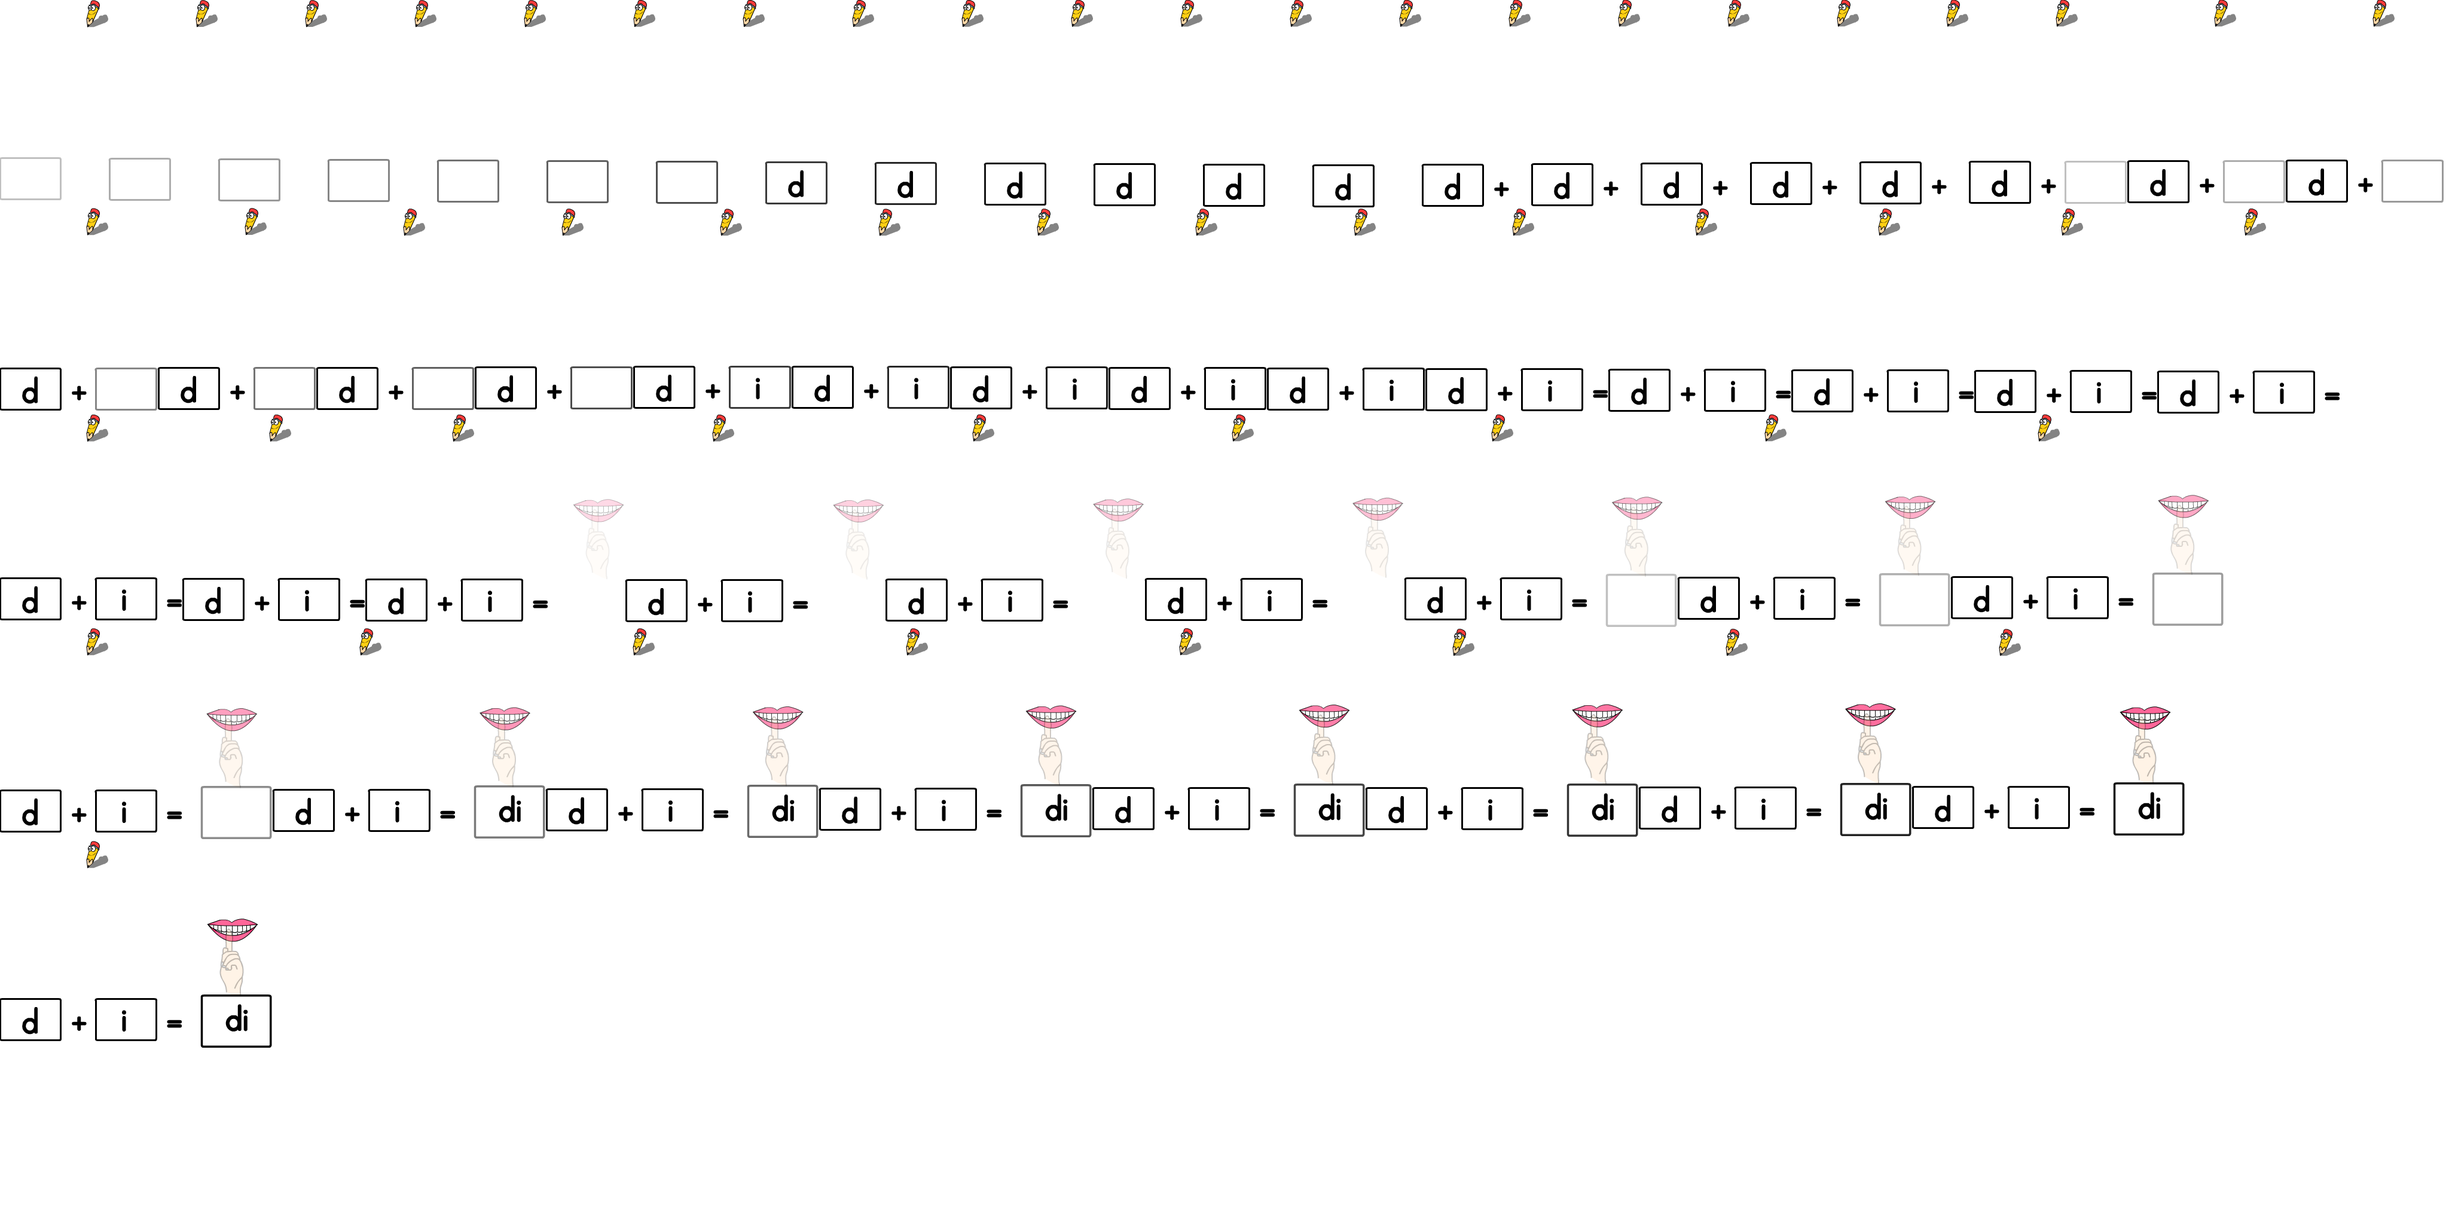
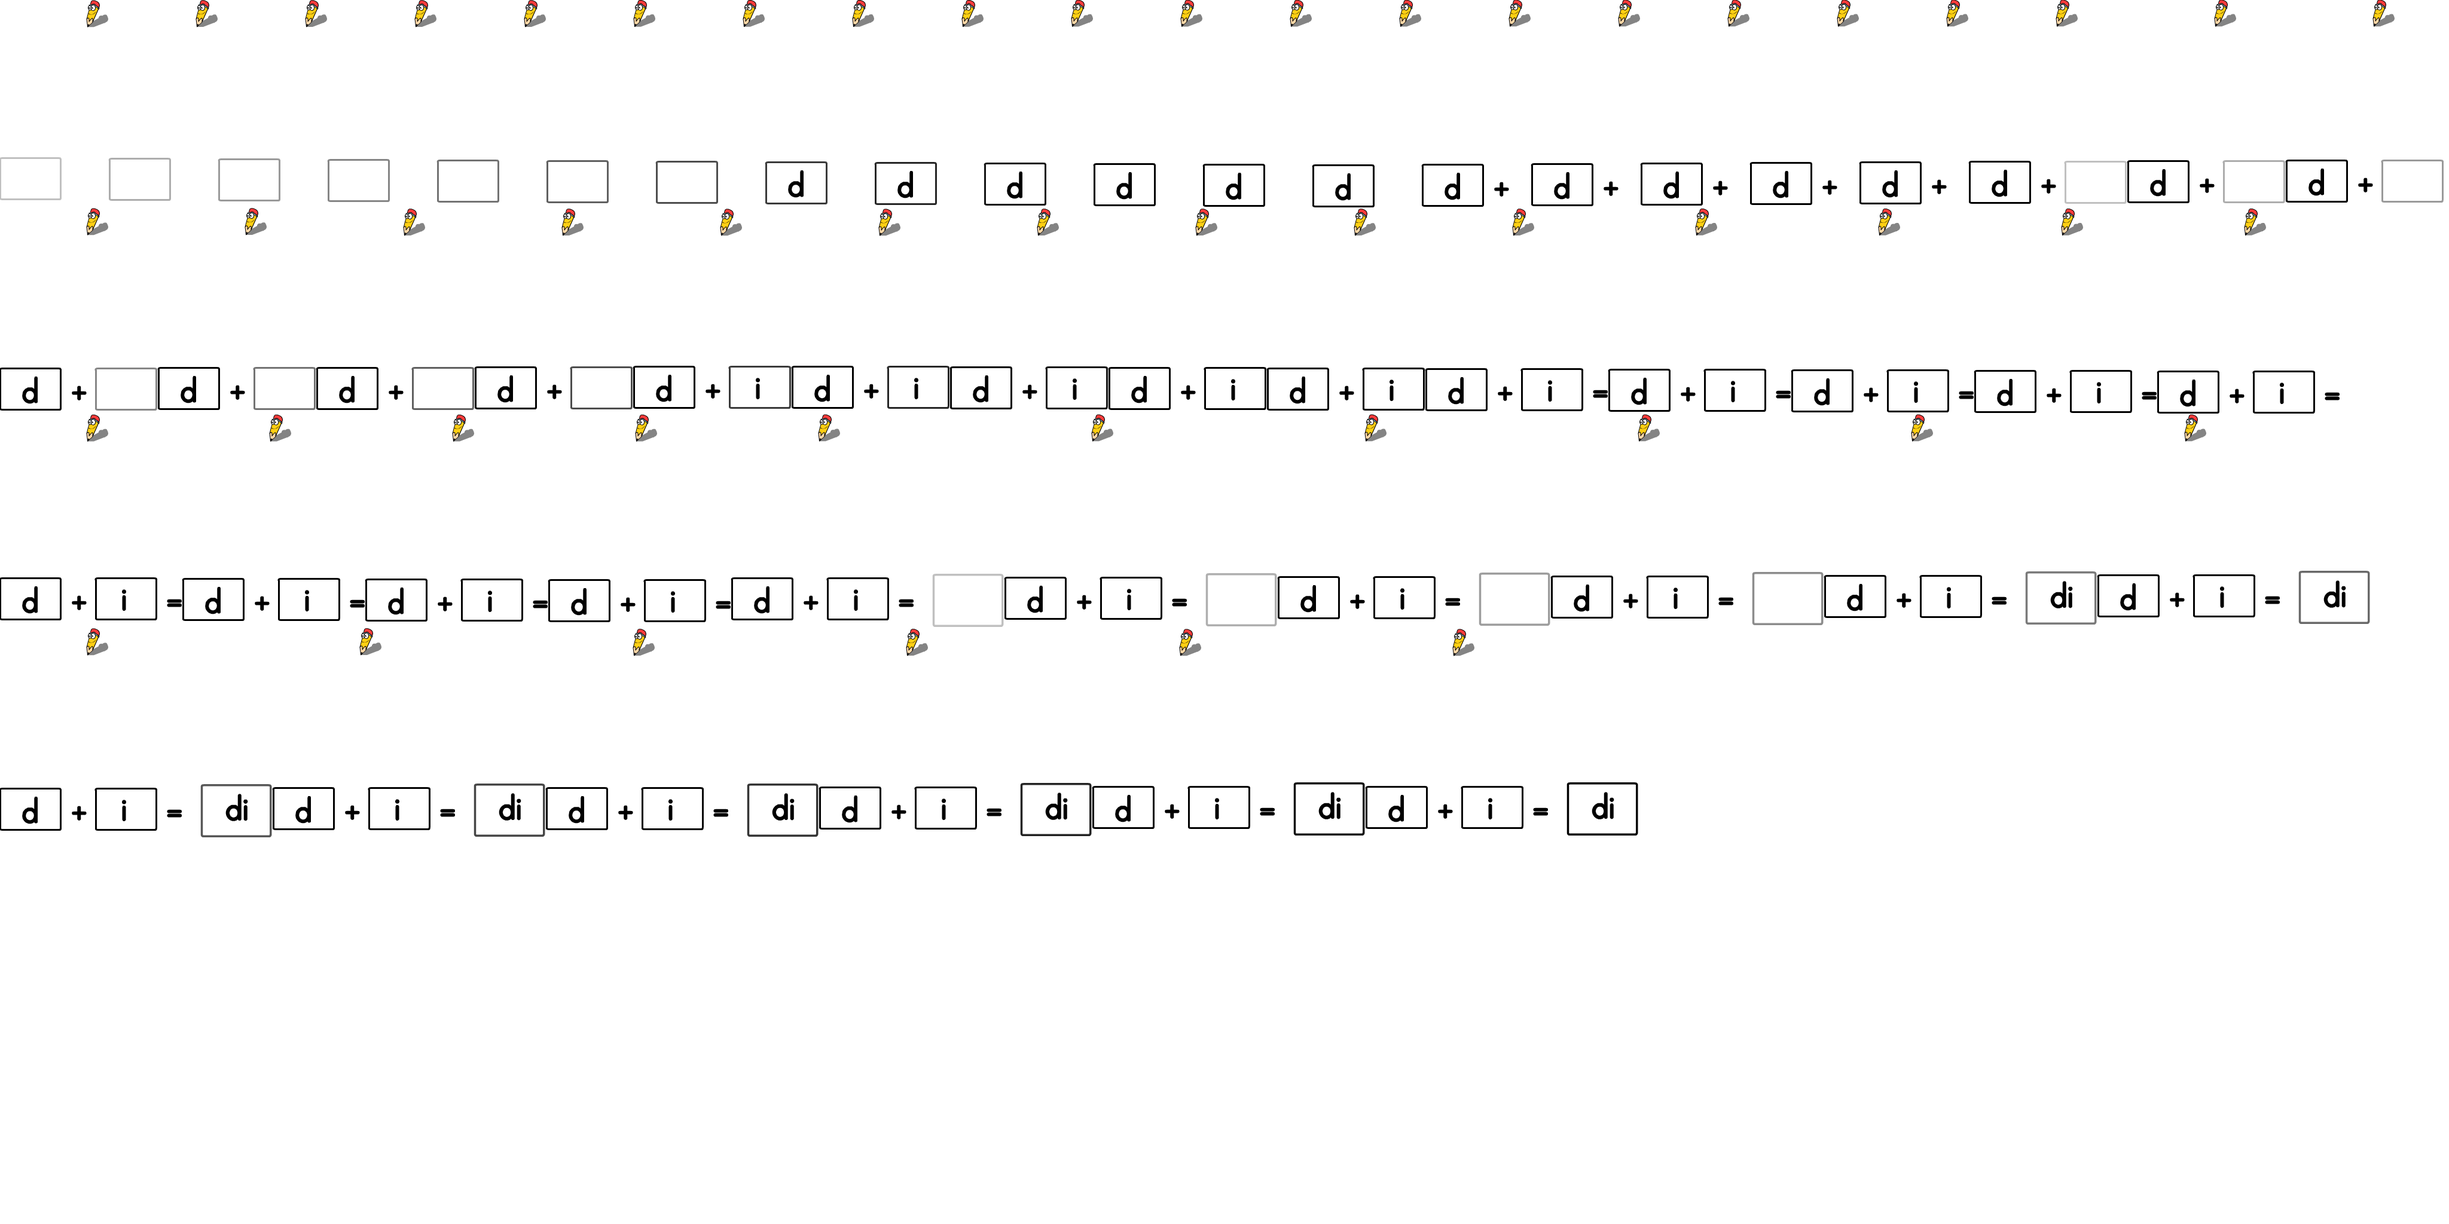
Fix minor bugs identified by QA

diff --git a/src/views/SukukataKv.vue b/src/views/SukukataKv.vue
@@ -123,7 +123,7 @@ let sukukata = [
             },
             {
               sukukata: "di",
-              frames: [[0,0,181,335,0,360.9,169.75],[183,0,181,336,0,360.9,170.75],[366,0,181,337,0,360.9,171.75],[549,0,181,338,0,360.9,172.75],[732,0,181,339,0,360.9,173.75],[915,0,181,340,0,360.9,174.75],[1098,0,181,341,0,360.9,175.75],[1281,0,181,342,0,360.9,176.75],[1464,0,181,343,0,360.9,177.75],[1647,0,181,344,0,360.9,178.75],[1830,0,181,345,0,360.9,179.75],[2013,0,181,346,0,360.9,180.75],[2196,0,181,347,0,360.9,181.75],[2379,0,181,346,0,360.9,180.75],[2562,0,181,345,0,360.9,179.75],[2745,0,181,344,0,360.9,178.75],[2928,0,181,343,0,360.9,177.75],[3111,0,181,342,0,360.9,176.75],[3294,0,263,341,0,360.9,175.75],[3559,0,263,340,0,360.9,174.75],[3824,0,263,339,0,360.9,173.75],[0,349,263,338,0,360.9,172.75],[265,349,263,337,0,360.9,171.75],[530,349,263,337,0,360.9,171.75],[795,349,263,336,0,360.9,170.75],[1060,349,263,335,0,360.9,169.75],[1325,349,263,335,0,360.9,169.75],[1590,349,263,336,0,360.9,170.75],[1855,349,263,337,0,360.9,171.75],[2120,349,263,338,0,360.9,172.75],[2385,349,304,339,0,360.9,173.75],[2691,349,304,340,0,360.9,174.75],[2997,349,304,341,0,360.9,175.75],[3303,349,304,342,0,360.9,176.75],[3609,349,304,343,0,360.9,177.75],[0,694,304,344,0,360.9,178.75],[306,694,304,345,0,360.9,179.75],[612,694,433,346,0,360.9,180.75],[1047,694,433,347,0,360.9,181.75],[1482,694,432,346,0,360.9,180.75],[1916,694,432,345,0,360.9,179.75],[2350,694,455,356,0,360.9,178.75],[2807,694,455,355,0,360.9,177.75],[3264,694,455,354,0,360.9,176.75],[0,1052,455,353,0,360.9,175.75],[457,1052,455,352,0,360.9,174.75],[914,1052,455,351,0,360.9,173.75],[1371,1052,455,350,0,360.9,172.75],[1828,1052,455,349,0,360.9,171.75],[2285,1052,455,349,0,360.9,171.75],[2742,1052,455,348,0,360.9,170.75],[3199,1052,455,347,0,360.9,169.75],[0,1407,455,347,0,360.9,169.75]],
+              frames: [[0,0,181,335,0,360.9,169.75],[183,0,181,336,0,360.9,170.75],[366,0,181,337,0,360.9,171.75],[549,0,181,338,0,360.9,172.75],[732,0,181,339,0,360.9,173.75],[915,0,181,340,0,360.9,174.75],[1098,0,181,341,0,360.9,175.75],[1281,0,181,342,0,360.9,176.75],[1464,0,181,343,0,360.9,177.75],[1647,0,181,344,0,360.9,178.75],[1830,0,181,345,0,360.9,179.75],[2013,0,181,346,0,360.9,180.75],[2196,0,181,347,0,360.9,181.75],[2379,0,181,346,0,360.9,180.75],[2562,0,181,345,0,360.9,179.75],[2745,0,181,344,0,360.9,178.75],[2928,0,181,343,0,360.9,177.75],[3111,0,181,342,0,360.9,176.75],[3294,0,263,341,0,360.9,175.75],[3559,0,263,340,0,360.9,174.75],[3824,0,263,339,0,360.9,173.75],[0,349,263,338,0,360.9,172.75],[265,349,263,337,0,360.9,171.75],[530,349,263,337,0,360.9,171.75],[795,349,263,336,0,360.9,170.75],[1060,349,263,335,0,360.9,169.75],[1325,349,263,335,0,360.9,169.75],[1590,349,263,336,0,360.9,170.75],[1855,349,263,337,0,360.9,171.75],[2120,349,263,338,0,360.9,172.75],[2385,349,304,339,0,360.9,173.75],[2691,349,304,340,0,360.9,174.75],[2997,349,304,341,0,360.9,175.75],[3303,349,304,342,0,360.9,176.75],[3609,349,304,343,0,360.9,177.75],[0,694,304,344,0,360.9,178.75],[306,694,304,345,0,360.9,179.75],[612,694,304,346,0,360.9,180.75],[918,694,304,347,0,360.9,181.75],[918,694,304,347,0,360.9,180.75],[612,694,304,346,0,360.9,179.75],[1224,694,455,356,0,360.9,178.75],[1681,694,455,355,0,360.9,177.75],[2138,694,455,354,0,360.9,176.75],[2595,694,455,353,0,360.9,175.75],[3052,694,455,352,0,360.9,174.75],[3509,694,455,351,0,360.9,173.75],[0,1052,455,350,0,360.9,172.75],[457,1052,455,349,0,360.9,171.75],[914,1052,455,349,0,360.9,171.75],[1371,1052,455,348,0,360.9,170.75],[1828,1052,455,347,0,360.9,169.75],[2285,1052,455,347,0,360.9,169.75]],
               x: isMobile.value ? .27: .3,
               y: isMobile.value ? .28 : .2,
               width: 277,
@@ -185,7 +185,7 @@ let sukukata = [
             },
             {
               sukukata: "fe",
-              frames: [[0,0,397,327,0,360.9,161.35],[399,0,397,328,0,360.9,162.35],[798,0,397,329,0,360.9,163.35],[1197,0,397,330,0,360.9,164.35],[1596,0,397,331,0,360.9,165.35],[1995,0,397,332,0,360.9,166.35],[2394,0,397,334,0,360.9,168.35],[2793,0,397,335,0,360.9,169.35],[3192,0,397,336,0,360.9,170.35],[3591,0,397,337,0,360.9,171.35],[0,339,397,338,0,360.9,172.35],[399,339,397,339,0,360.9,173.35],[798,339,397,340,0,360.9,174.35],[1197,339,397,339,0,360.9,173.35],[1596,339,397,338,0,360.9,172.35],[1995,339,397,337,0,360.9,171.35],[2394,339,397,336,0,360.9,170.35],[2793,339,397,335,0,360.9,169.35],[3192,339,397,334,0,360.9,168.35],[3591,339,397,333,0,360.9,167.35],[0,681,397,332,0,360.9,166.35],[399,681,397,331,0,360.9,165.35],[798,681,397,330,0,360.9,164.35],[1197,681,397,329,0,360.9,163.35],[1596,681,397,328,0,360.9,162.35],[1995,681,397,327,0,360.9,161.35],[2394,681,397,327,0,360.9,161.35],[2793,681,397,328,0,360.9,162.35],[3192,681,397,329,0,360.9,163.35],[3591,681,397,330,0,360.9,164.35],[0,1015,397,331,0,360.9,165.35],[399,1015,397,332,0,360.9,166.35],[798,1015,397,334,0,360.9,168.35],[1197,1015,397,335,0,360.9,169.35],[1596,1015,397,336,0,360.9,170.35],[1995,1015,397,337,0,360.9,171.35],[2394,1015,397,338,0,360.9,172.35],[2793,1015,482,339,0,360.9,173.35],[3277,1015,482,340,0,360.9,174.35],[0,1357,482,339,0,360.9,173.35],[484,1357,482,338,0,360.9,172.35],[968,1357,482,349,0,360.9,171.35],[1452,1357,482,348,0,360.9,170.35],[1936,1357,482,347,0,360.9,169.35],[2420,1357,482,346,0,360.9,168.35],[2904,1357,482,345,0,360.9,167.35],[3388,1357,482,344,0,360.9,166.35],[0,1708,482,343,0,360.9,165.35],[484,1708,482,342,0,360.9,164.35],[968,1708,482,341,0,360.9,163.35],[1452,1708,482,340,0,360.9,162.35],[1936,1708,482,339,0,360.9,161.35],[2420,1708,482,339,0,360.9,161.35]],
+              frames: [[0,0,397,327,0,360.9,161.35],[399,0,397,328,0,360.9,162.35],[798,0,397,329,0,360.9,163.35],[1197,0,397,330,0,360.9,164.35],[1596,0,397,331,0,360.9,165.35],[1995,0,397,332,0,360.9,166.35],[2394,0,397,334,0,360.9,168.35],[2793,0,397,335,0,360.9,169.35],[3192,0,397,336,0,360.9,170.35],[3591,0,397,337,0,360.9,171.35],[0,339,397,338,0,360.9,172.35],[399,339,397,339,0,360.9,173.35],[798,339,397,340,0,360.9,174.35],[1197,339,397,339,0,360.9,173.35],[1596,339,397,338,0,360.9,172.35],[1995,339,397,337,0,360.9,171.35],[2394,339,397,336,0,360.9,170.35],[2793,339,397,335,0,360.9,169.35],[3192,339,397,334,0,360.9,168.35],[3591,339,397,333,0,360.9,167.35],[0,681,397,332,0,360.9,166.35],[399,681,397,331,0,360.9,165.35],[798,681,397,330,0,360.9,164.35],[1197,681,397,329,0,360.9,163.35],[1596,681,397,328,0,360.9,162.35],[1995,681,397,327,0,360.9,161.35],[2394,681,397,327,0,360.9,161.35],[2793,681,397,328,0,360.9,162.35],[3192,681,397,329,0,360.9,163.35],[3591,681,397,330,0,360.9,164.35],[0,1015,397,331,0,360.9,165.35],[399,1015,397,332,0,360.9,166.35],[798,1015,397,334,0,360.9,168.35],[1197,1015,397,335,0,360.9,169.35],[1596,1015,397,336,0,360.9,170.35],[1995,1015,397,337,0,360.9,171.35],[2394,1015,397,338,0,360.9,172.35],[2793,1015,397,339,0,360.9,173.35],[3192,1015,397,340,0,360.9,174.35],[3192,1015,397,340,0,360.9,173.35],[2793,1015,397,339,0,360.9,172.35],[3591,1015,455,349,0,360.9,171.35],[0,1366,455,348,0,360.9,170.35],[457,1366,455,347,0,360.9,169.35],[914,1366,455,346,0,360.9,168.35],[1371,1366,455,345,0,360.9,167.35],[1828,1366,455,344,0,360.9,166.35],[2285,1366,455,343,0,360.9,165.35],[2742,1366,455,342,0,360.9,164.35],[3199,1366,455,341,0,360.9,163.35],[0,1716,455,340,0,360.9,162.35],[457,1716,455,339,0,360.9,161.35],[914,1716,455,339,0,360.9,161.35]],
               x: isMobile.value ? .64 : .6,
               y: isMobile.value ? .29: .2,
               width: 280,

diff --git a/public/images/sukukata/kv/f/fe.js b/public/images/sukukata/kv/f/fe.js
@@ -2,7 +2,7 @@
 fe_anim = function() {
 	this.initialize();
 }
-fe_anim._SpriteSheet = new createjs.SpriteSheet({images: ["fe.png"], frames: [[0,0,397,327,0,360.9,161.35],[399,0,397,328,0,360.9,162.35],[798,0,397,329,0,360.9,163.35],[1197,0,397,330,0,360.9,164.35],[1596,0,397,331,0,360.9,165.35],[1995,0,397,332,0,360.9,166.35],[2394,0,397,334,0,360.9,168.35],[2793,0,397,335,0,360.9,169.35],[3192,0,397,336,0,360.9,170.35],[3591,0,397,337,0,360.9,171.35],[0,339,397,338,0,360.9,172.35],[399,339,397,339,0,360.9,173.35],[798,339,397,340,0,360.9,174.35],[1197,339,397,339,0,360.9,173.35],[1596,339,397,338,0,360.9,172.35],[1995,339,397,337,0,360.9,171.35],[2394,339,397,336,0,360.9,170.35],[2793,339,397,335,0,360.9,169.35],[3192,339,397,334,0,360.9,168.35],[3591,339,397,333,0,360.9,167.35],[0,681,397,332,0,360.9,166.35],[399,681,397,331,0,360.9,165.35],[798,681,397,330,0,360.9,164.35],[1197,681,397,329,0,360.9,163.35],[1596,681,397,328,0,360.9,162.35],[1995,681,397,327,0,360.9,161.35],[2394,681,397,327,0,360.9,161.35],[2793,681,397,328,0,360.9,162.35],[3192,681,397,329,0,360.9,163.35],[3591,681,397,330,0,360.9,164.35],[0,1015,397,331,0,360.9,165.35],[399,1015,397,332,0,360.9,166.35],[798,1015,397,334,0,360.9,168.35],[1197,1015,397,335,0,360.9,169.35],[1596,1015,397,336,0,360.9,170.35],[1995,1015,397,337,0,360.9,171.35],[2394,1015,397,338,0,360.9,172.35],[2793,1015,482,339,0,360.9,173.35],[3277,1015,482,340,0,360.9,174.35],[0,1357,482,339,0,360.9,173.35],[484,1357,482,338,0,360.9,172.35],[968,1357,482,349,0,360.9,171.35],[1452,1357,482,348,0,360.9,170.35],[1936,1357,482,347,0,360.9,169.35],[2420,1357,482,346,0,360.9,168.35],[2904,1357,482,345,0,360.9,167.35],[3388,1357,482,344,0,360.9,166.35],[0,1708,482,343,0,360.9,165.35],[484,1708,482,342,0,360.9,164.35],[968,1708,482,341,0,360.9,163.35],[1452,1708,482,340,0,360.9,162.35],[1936,1708,482,339,0,360.9,161.35],[2420,1708,482,339,0,360.9,161.35]]});
+fe_anim._SpriteSheet = new createjs.SpriteSheet({images: ["fe.png"], frames: [[0,0,397,327,0,360.9,161.35],[399,0,397,328,0,360.9,162.35],[798,0,397,329,0,360.9,163.35],[1197,0,397,330,0,360.9,164.35],[1596,0,397,331,0,360.9,165.35],[1995,0,397,332,0,360.9,166.35],[2394,0,397,334,0,360.9,168.35],[2793,0,397,335,0,360.9,169.35],[3192,0,397,336,0,360.9,170.35],[3591,0,397,337,0,360.9,171.35],[0,339,397,338,0,360.9,172.35],[399,339,397,339,0,360.9,173.35],[798,339,397,340,0,360.9,174.35],[1197,339,397,339,0,360.9,173.35],[1596,339,397,338,0,360.9,172.35],[1995,339,397,337,0,360.9,171.35],[2394,339,397,336,0,360.9,170.35],[2793,339,397,335,0,360.9,169.35],[3192,339,397,334,0,360.9,168.35],[3591,339,397,333,0,360.9,167.35],[0,681,397,332,0,360.9,166.35],[399,681,397,331,0,360.9,165.35],[798,681,397,330,0,360.9,164.35],[1197,681,397,329,0,360.9,163.35],[1596,681,397,328,0,360.9,162.35],[1995,681,397,327,0,360.9,161.35],[2394,681,397,327,0,360.9,161.35],[2793,681,397,328,0,360.9,162.35],[3192,681,397,329,0,360.9,163.35],[3591,681,397,330,0,360.9,164.35],[0,1015,397,331,0,360.9,165.35],[399,1015,397,332,0,360.9,166.35],[798,1015,397,334,0,360.9,168.35],[1197,1015,397,335,0,360.9,169.35],[1596,1015,397,336,0,360.9,170.35],[1995,1015,397,337,0,360.9,171.35],[2394,1015,397,338,0,360.9,172.35],[2793,1015,397,339,0,360.9,173.35],[3192,1015,397,340,0,360.9,174.35],[3192,1015,397,340,0,360.9,173.35],[2793,1015,397,339,0,360.9,172.35],[3591,1015,455,349,0,360.9,171.35],[0,1366,455,348,0,360.9,170.35],[457,1366,455,347,0,360.9,169.35],[914,1366,455,346,0,360.9,168.35],[1371,1366,455,345,0,360.9,167.35],[1828,1366,455,344,0,360.9,166.35],[2285,1366,455,343,0,360.9,165.35],[2742,1366,455,342,0,360.9,164.35],[3199,1366,455,341,0,360.9,163.35],[0,1716,455,340,0,360.9,162.35],[457,1716,455,339,0,360.9,161.35],[914,1716,455,339,0,360.9,161.35]]});
 var fe_anim_p = fe_anim.prototype = new createjs.Sprite();
 fe_anim_p.Sprite_initialize = fe_anim_p.initialize;
 fe_anim_p.initialize = function() {

diff --git a/public/images/sukukata/kv/d/di.js b/public/images/sukukata/kv/d/di.js
@@ -2,7 +2,7 @@
 di_anim = function() {
 	this.initialize();
 }
-di_anim._SpriteSheet = new createjs.SpriteSheet({images: ["di.png"], frames: [[0,0,181,335,0,360.9,169.75],[183,0,181,336,0,360.9,170.75],[366,0,181,337,0,360.9,171.75],[549,0,181,338,0,360.9,172.75],[732,0,181,339,0,360.9,173.75],[915,0,181,340,0,360.9,174.75],[1098,0,181,341,0,360.9,175.75],[1281,0,181,342,0,360.9,176.75],[1464,0,181,343,0,360.9,177.75],[1647,0,181,344,0,360.9,178.75],[1830,0,181,345,0,360.9,179.75],[2013,0,181,346,0,360.9,180.75],[2196,0,181,347,0,360.9,181.75],[2379,0,181,346,0,360.9,180.75],[2562,0,181,345,0,360.9,179.75],[2745,0,181,344,0,360.9,178.75],[2928,0,181,343,0,360.9,177.75],[3111,0,181,342,0,360.9,176.75],[3294,0,263,341,0,360.9,175.75],[3559,0,263,340,0,360.9,174.75],[3824,0,263,339,0,360.9,173.75],[0,349,263,338,0,360.9,172.75],[265,349,263,337,0,360.9,171.75],[530,349,263,337,0,360.9,171.75],[795,349,263,336,0,360.9,170.75],[1060,349,263,335,0,360.9,169.75],[1325,349,263,335,0,360.9,169.75],[1590,349,263,336,0,360.9,170.75],[1855,349,263,337,0,360.9,171.75],[2120,349,263,338,0,360.9,172.75],[2385,349,304,339,0,360.9,173.75],[2691,349,304,340,0,360.9,174.75],[2997,349,304,341,0,360.9,175.75],[3303,349,304,342,0,360.9,176.75],[3609,349,304,343,0,360.9,177.75],[0,694,304,344,0,360.9,178.75],[306,694,304,345,0,360.9,179.75],[612,694,433,346,0,360.9,180.75],[1047,694,433,347,0,360.9,181.75],[1482,694,432,346,0,360.9,180.75],[1916,694,432,345,0,360.9,179.75],[2350,694,455,356,0,360.9,178.75],[2807,694,455,355,0,360.9,177.75],[3264,694,455,354,0,360.9,176.75],[0,1052,455,353,0,360.9,175.75],[457,1052,455,352,0,360.9,174.75],[914,1052,455,351,0,360.9,173.75],[1371,1052,455,350,0,360.9,172.75],[1828,1052,455,349,0,360.9,171.75],[2285,1052,455,349,0,360.9,171.75],[2742,1052,455,348,0,360.9,170.75],[3199,1052,455,347,0,360.9,169.75],[0,1407,455,347,0,360.9,169.75]]});
+di_anim._SpriteSheet = new createjs.SpriteSheet({images: ["di.png"], frames: [[0,0,181,335,0,360.9,169.75],[183,0,181,336,0,360.9,170.75],[366,0,181,337,0,360.9,171.75],[549,0,181,338,0,360.9,172.75],[732,0,181,339,0,360.9,173.75],[915,0,181,340,0,360.9,174.75],[1098,0,181,341,0,360.9,175.75],[1281,0,181,342,0,360.9,176.75],[1464,0,181,343,0,360.9,177.75],[1647,0,181,344,0,360.9,178.75],[1830,0,181,345,0,360.9,179.75],[2013,0,181,346,0,360.9,180.75],[2196,0,181,347,0,360.9,181.75],[2379,0,181,346,0,360.9,180.75],[2562,0,181,345,0,360.9,179.75],[2745,0,181,344,0,360.9,178.75],[2928,0,181,343,0,360.9,177.75],[3111,0,181,342,0,360.9,176.75],[3294,0,263,341,0,360.9,175.75],[3559,0,263,340,0,360.9,174.75],[3824,0,263,339,0,360.9,173.75],[0,349,263,338,0,360.9,172.75],[265,349,263,337,0,360.9,171.75],[530,349,263,337,0,360.9,171.75],[795,349,263,336,0,360.9,170.75],[1060,349,263,335,0,360.9,169.75],[1325,349,263,335,0,360.9,169.75],[1590,349,263,336,0,360.9,170.75],[1855,349,263,337,0,360.9,171.75],[2120,349,263,338,0,360.9,172.75],[2385,349,304,339,0,360.9,173.75],[2691,349,304,340,0,360.9,174.75],[2997,349,304,341,0,360.9,175.75],[3303,349,304,342,0,360.9,176.75],[3609,349,304,343,0,360.9,177.75],[0,694,304,344,0,360.9,178.75],[306,694,304,345,0,360.9,179.75],[612,694,304,346,0,360.9,180.75],[918,694,304,347,0,360.9,181.75],[918,694,304,347,0,360.9,180.75],[612,694,304,346,0,360.9,179.75],[1224,694,455,356,0,360.9,178.75],[1681,694,455,355,0,360.9,177.75],[2138,694,455,354,0,360.9,176.75],[2595,694,455,353,0,360.9,175.75],[3052,694,455,352,0,360.9,174.75],[3509,694,455,351,0,360.9,173.75],[0,1052,455,350,0,360.9,172.75],[457,1052,455,349,0,360.9,171.75],[914,1052,455,349,0,360.9,171.75],[1371,1052,455,348,0,360.9,170.75],[1828,1052,455,347,0,360.9,169.75],[2285,1052,455,347,0,360.9,169.75]]});
 var di_anim_p = di_anim.prototype = new createjs.Sprite();
 di_anim_p.Sprite_initialize = di_anim_p.initialize;
 di_anim_p.initialize = function() {

diff --git a/src/views/SukukataKvk.vue b/src/views/SukukataKvk.vue
@@ -1349,8 +1349,16 @@ function displaySukukata(sukukata){
     stage.removeChild(displayedLastLetterElement);
     displayedLastLetter = "";
   }
+
+  let x = isMobile.value ? canvas.width * .54 : canvas.width * .48;//default horizontal position 
+  
+  //for sukukata m needs to be adjusted slightly left
+  if(sukukata[0] === 'm'){
+    x = isMobile.value ? canvas.width * .52 : canvas.width * .46;
+  }
+
   let text = new createjs.Text(sukukata, "120px MyLexics", "#000"); // size and color
-  text.x = isMobile.value ? canvas.width * .54 : canvas.width * .48;
+  text.x = x;
   text.y = canvas.height * .36;
   // Add to stage and update
   stage.addChild(text);
